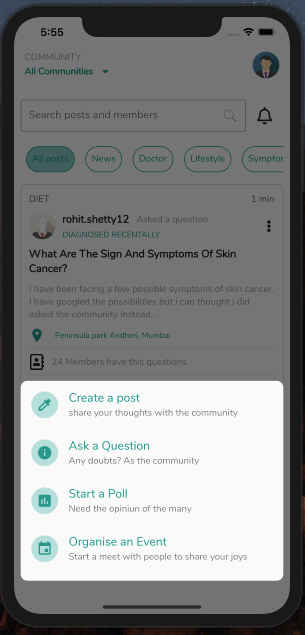
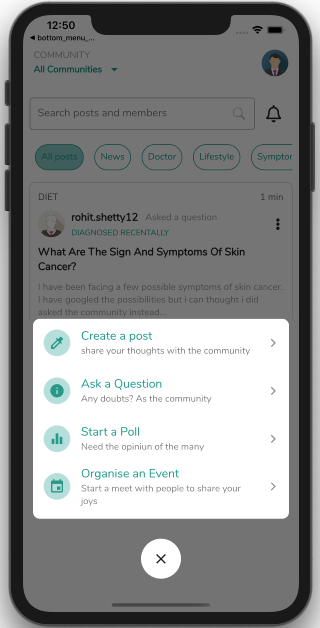
detail screen

diff --git a/lib/ui/home.dart b/lib/ui/home.dart
@@ -42,14 +42,14 @@ class _HomePageState extends State<HomePage> with TickerProviderStateMixin {
   @override
   void initState() {
     super.initState();
-    _selectedTab(_selectedDrawerIndex);
 
+    _selectedTab(_selectedDrawerIndex);
     bottomMenuItems.add(new MenuModel('Create a post',
         'share your thoughts with the community', Icons.colorize));
     bottomMenuItems.add(new MenuModel(
         'Ask a Question', 'Any doubts? As the community', Icons.info));
     bottomMenuItems.add(new MenuModel(
-        'Start a Poll', 'Need the opiniun of the many', Icons.poll));
+        'Start a Poll', 'Need the opiniun of the many', Icons.equalizer));
     bottomMenuItems.add(new MenuModel('Organise an Event',
         'Start a meet with people to share your joys', Icons.event));
   }
@@ -63,7 +63,7 @@ class _HomePageState extends State<HomePage> with TickerProviderStateMixin {
       floatingActionButton: FloatingActionButton(
         tooltip: 'Create Post',
         splashColor: Colors.teal,
-        onPressed: _onCenterBottomFloatingPressed,
+        onPressed: _modalBottomSheetMenu,
         child: Icon(CupertinoIcons.add),
         elevation: 0,
       ),
@@ -85,56 +85,71 @@ class _HomePageState extends State<HomePage> with TickerProviderStateMixin {
     );
   }
 
-  _onCenterBottomFloatingPressed() {
+  _modalBottomSheetMenu() {
     showModalBottomSheet(
         context: context,
-        builder: (context) {
+        builder: (BuildContext context) {
           return Container(
+            height: 440.0,
             color: Color(0xFF737373),
-            child: menuBottomSheet(),
+            child: Column(
+              children: <Widget>[
+                Container(
+                  height: 300.0,
+                  margin: EdgeInsets.symmetric(horizontal: 15),
+                  decoration: new BoxDecoration(
+                      color: Colors.white, //Color(0xFF737373),
+                      borderRadius: BorderRadius.all(Radius.circular(10.0))),
+                  child: ListView.builder(
+                      itemCount: bottomMenuItems.length,
+                      itemBuilder: (context, index) {
+                        return ListTile(
+                          leading: Container(
+                            padding: EdgeInsets.all(8),
+                            decoration: BoxDecoration(
+                              borderRadius:
+                                  BorderRadius.all(Radius.circular(30)),
+                              color: Colors.teal[100],
+                            ),
+                            child: Icon(
+                              bottomMenuItems[index].icon,
+                              color: Colors.teal,
+                            ),
+                          ),
+                          trailing: Icon(
+                            Icons.arrow_forward_ios,
+                            size: 15,
+                          ),
+                          title: Text(
+                            bottomMenuItems[index].title,
+                            style: TextStyle(color: Colors.teal, fontSize: 18),
+                          ),
+                          subtitle: Text(bottomMenuItems[index].subtitle),
+                          onTap: () {
+                            Navigator.pop(context);
+                            debugPrint(bottomMenuItems[index].title);
+                          },
+                        );
+                      }),
+                ),
+
+                //SizedBox(height: 10),
+
+                Container(
+                    height: 60, width: 60,
+                    decoration: BoxDecoration(
+                        color: Colors.white,
+                        borderRadius: BorderRadius.all(Radius.circular(30))),
+                    margin: EdgeInsets.symmetric(vertical: 30),
+                    child: GestureDetector(
+                        onTap: () => Navigator.pop(context),
+                        child: Icon(Icons.close,
+                            size: 25, color: Colors.grey[900]))),
+              ],
+            ),
           );
         });
   }
-
-  Widget divider() {
-    return Divider(
-      height: 1,
-      color: Colors.grey[500],
-    );
-  }
-
-  Widget menuBottomSheet() {
-
-    return Container(height: 300,
-      margin: EdgeInsets.only(left: 10, right: 10, bottom: 50),
-      decoration: BoxDecoration(
-        color: Theme.of(context).canvasColor,
-        borderRadius: BorderRadius.all(Radius.circular(10)),
-      ),
-
-      child: ListView.builder(
-          itemCount: bottomMenuItems.length,
-          itemBuilder: (context, index) {
-            return ListTile(
-              leading: Container(
-                padding: EdgeInsets.all(8),
-                decoration: BoxDecoration(
-                  borderRadius: BorderRadius.all(Radius.circular(30)),
-                  color: Colors.teal[100],
-                ),
-                child: Icon(bottomMenuItems[index].icon, color: Colors.teal,),
-              ),
-              title: Text(bottomMenuItems[index].title, style: TextStyle( color: Colors.teal, fontSize: 18),),
-              subtitle: Text(bottomMenuItems[index].subtitle),
-              onTap: () {
-                Navigator.pop(context);
-                debugPrint(bottomMenuItems[index].title);
-              },
-            );
-          }),
-    );
-  }
-
 }
 
 class MenuModel {
